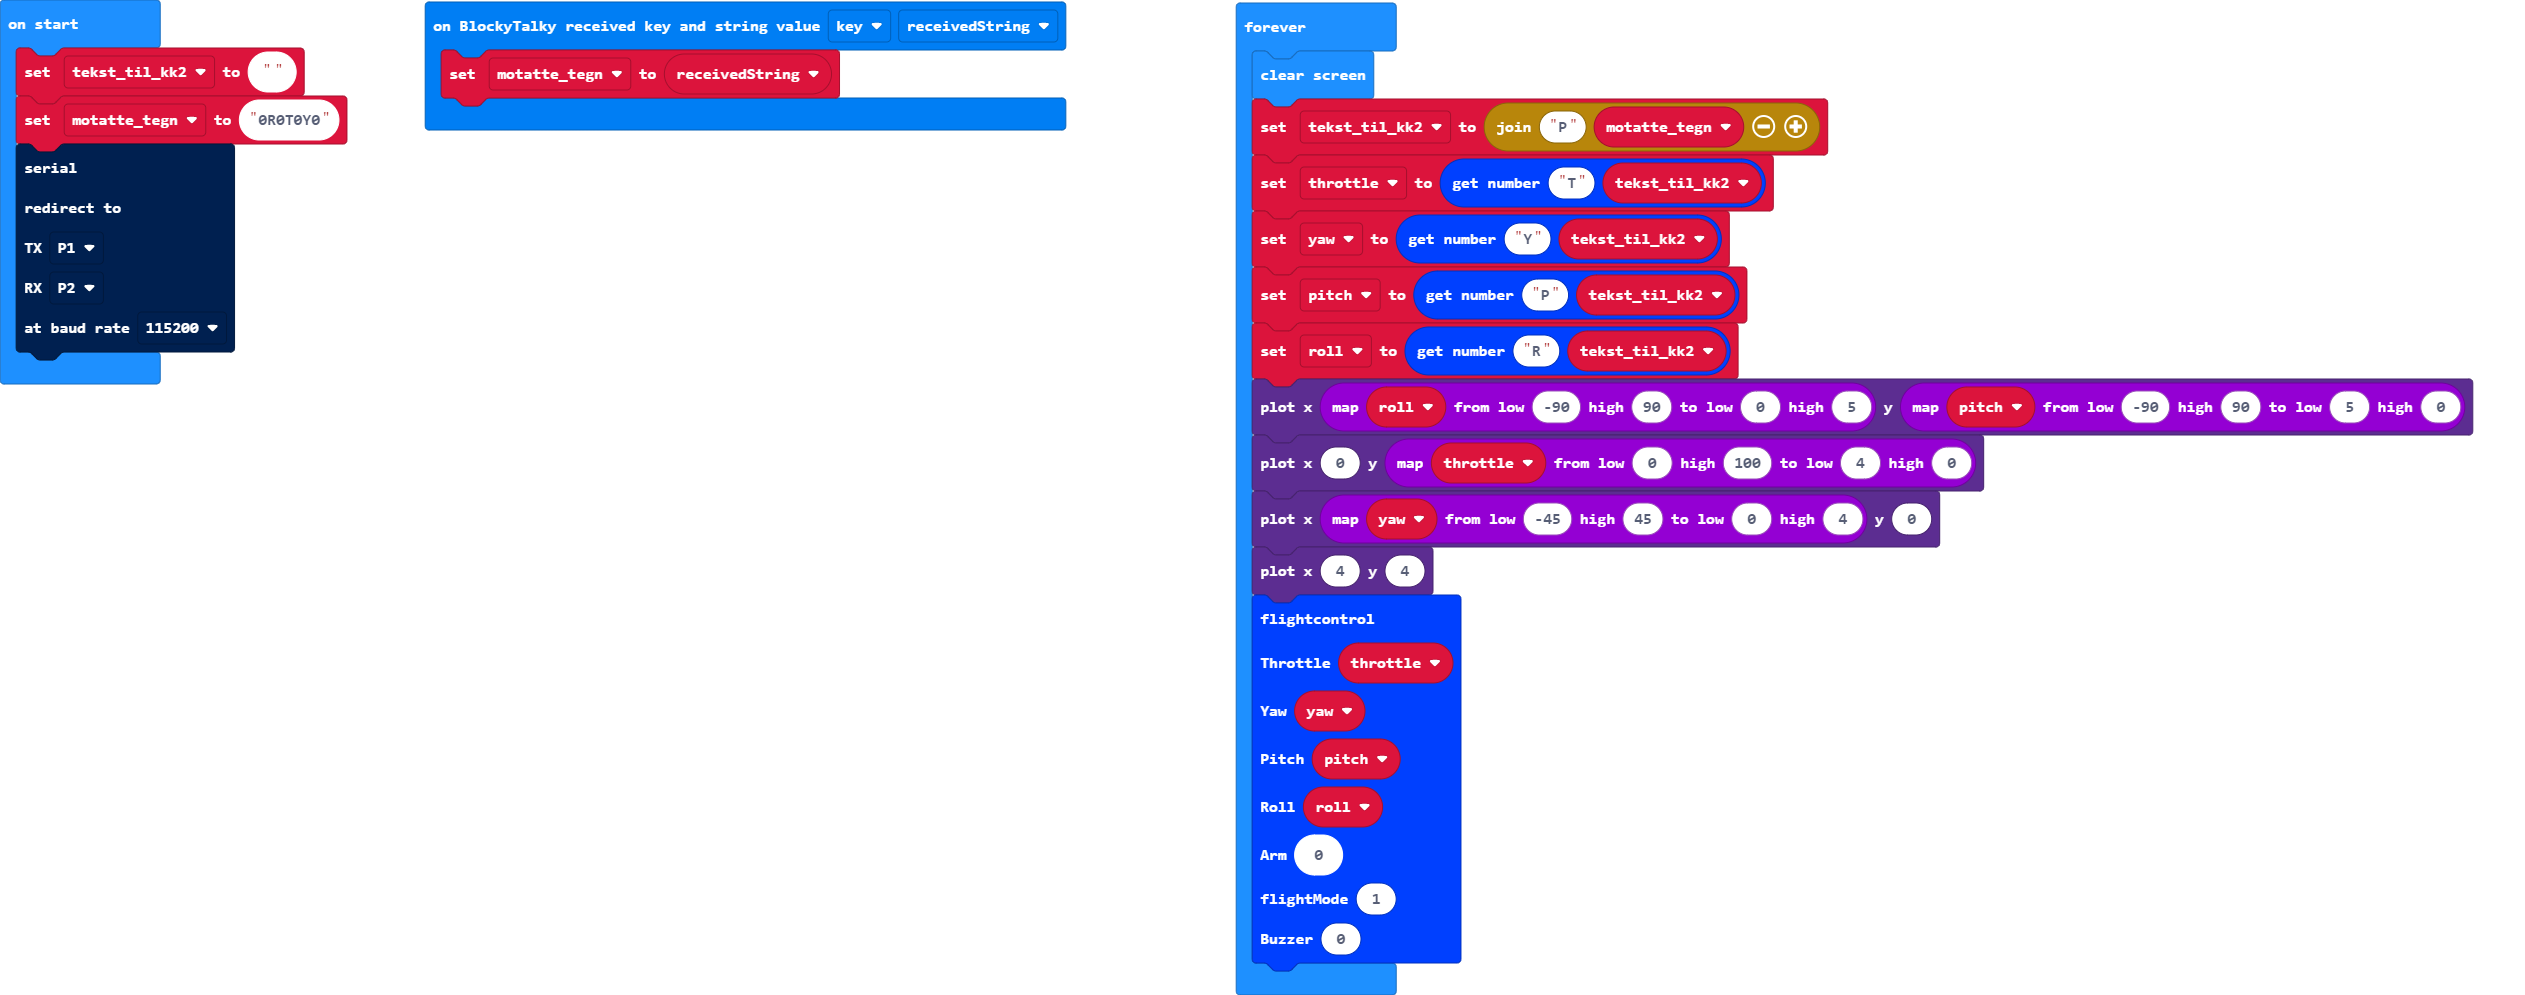
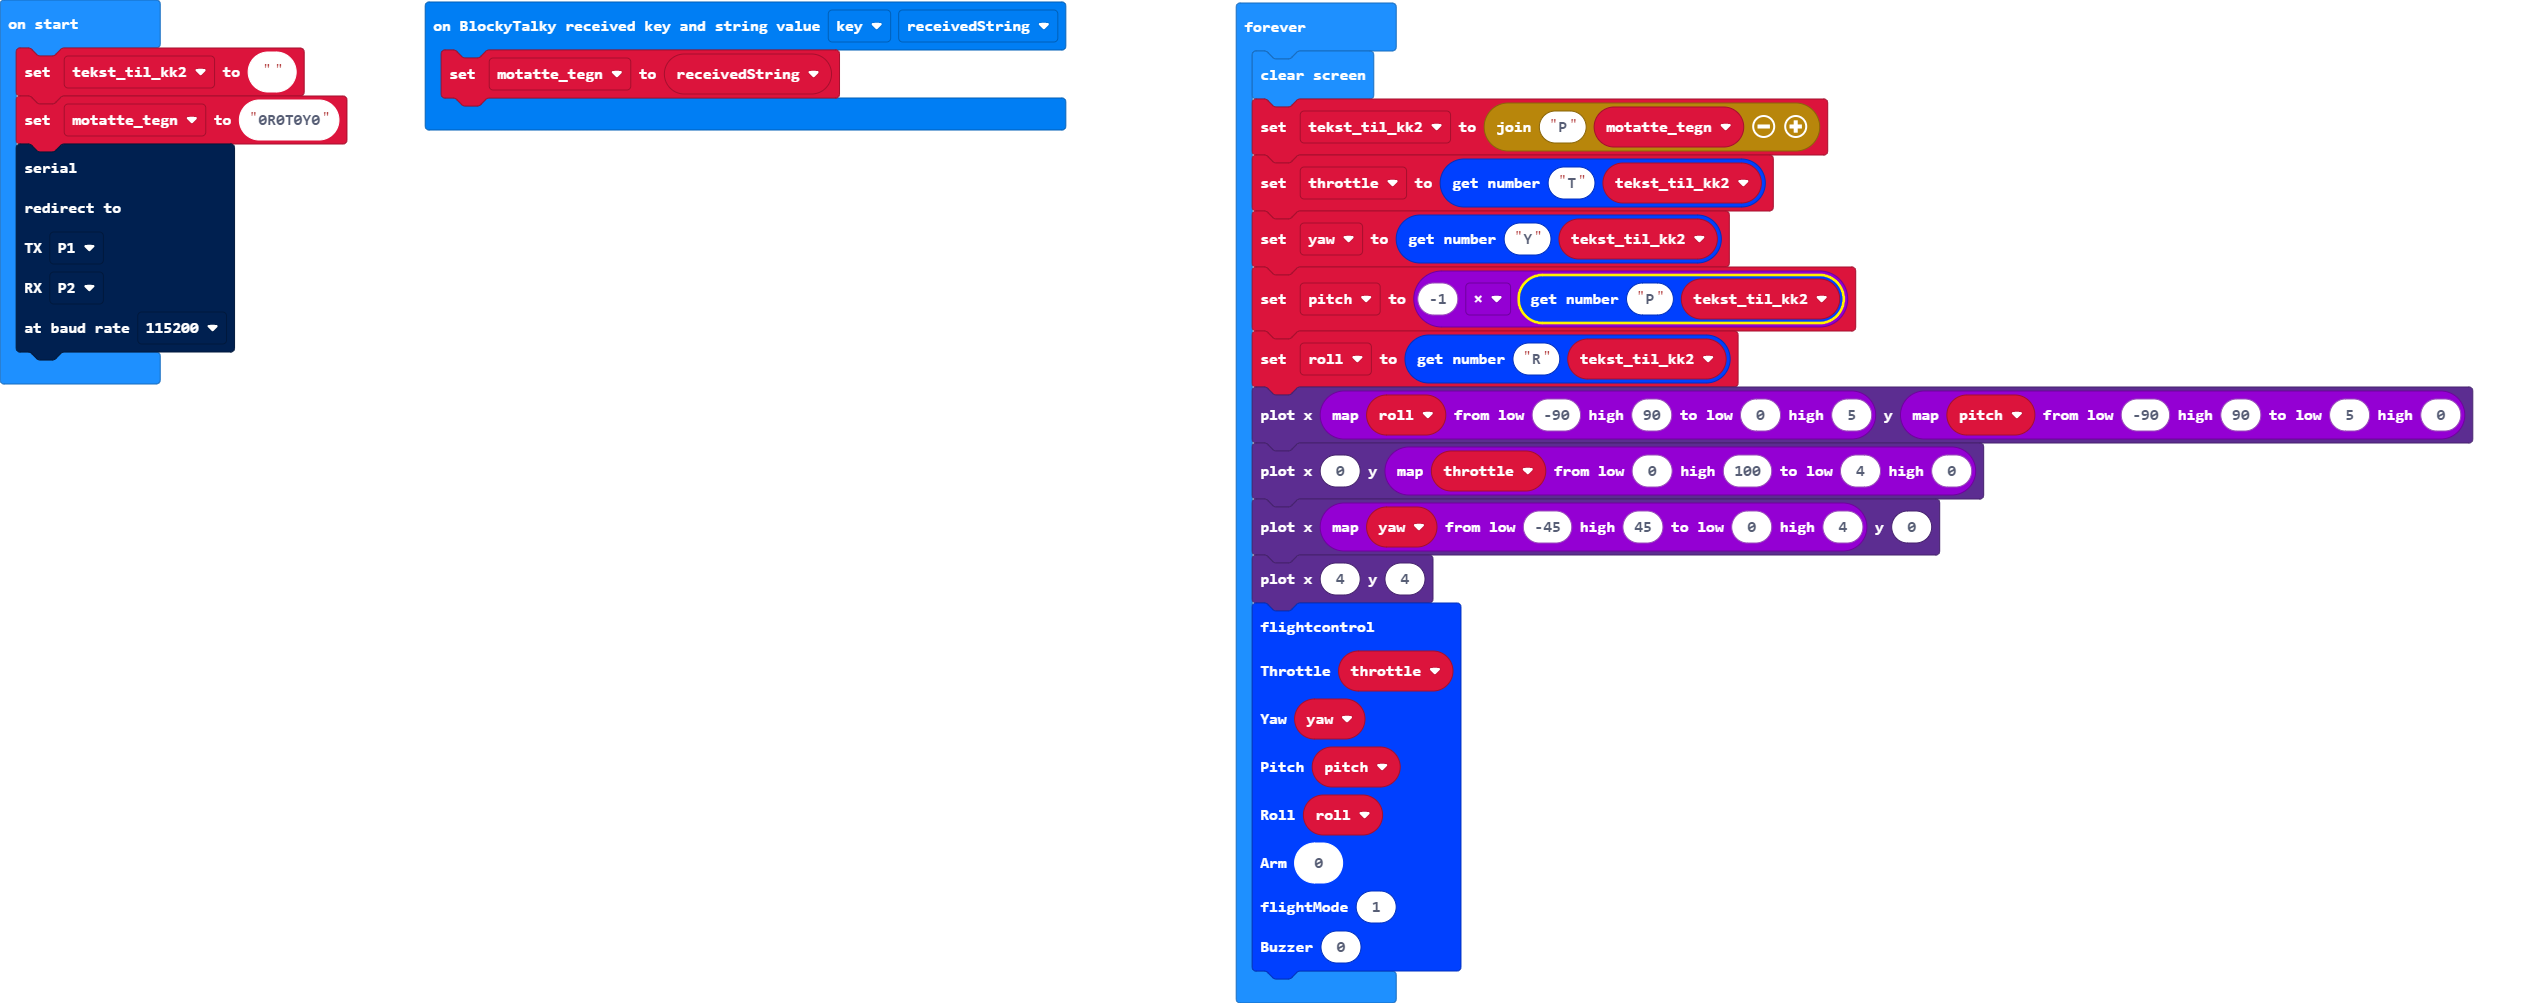
Update main.blocks, main.ts

diff --git a/main.ts b/main.ts
@@ -18,7 +18,7 @@ basic.forever(function () {
     tekst_til_kk2 = "P" + motatte_tegn
     throttle = AirBit.getNumber("T", tekst_til_kk2)
     yaw = AirBit.getNumber("Y", tekst_til_kk2)
-    pitch = AirBit.getNumber("P", tekst_til_kk2)
+    pitch = -1 * AirBit.getNumber("P", tekst_til_kk2)
     roll = AirBit.getNumber("R", tekst_til_kk2)
     led.plot(Math.map(roll, -90, 90, 0, 5), Math.map(pitch, -90, 90, 5, 0))
     led.plot(0, Math.map(throttle, 0, 100, 4, 0))
